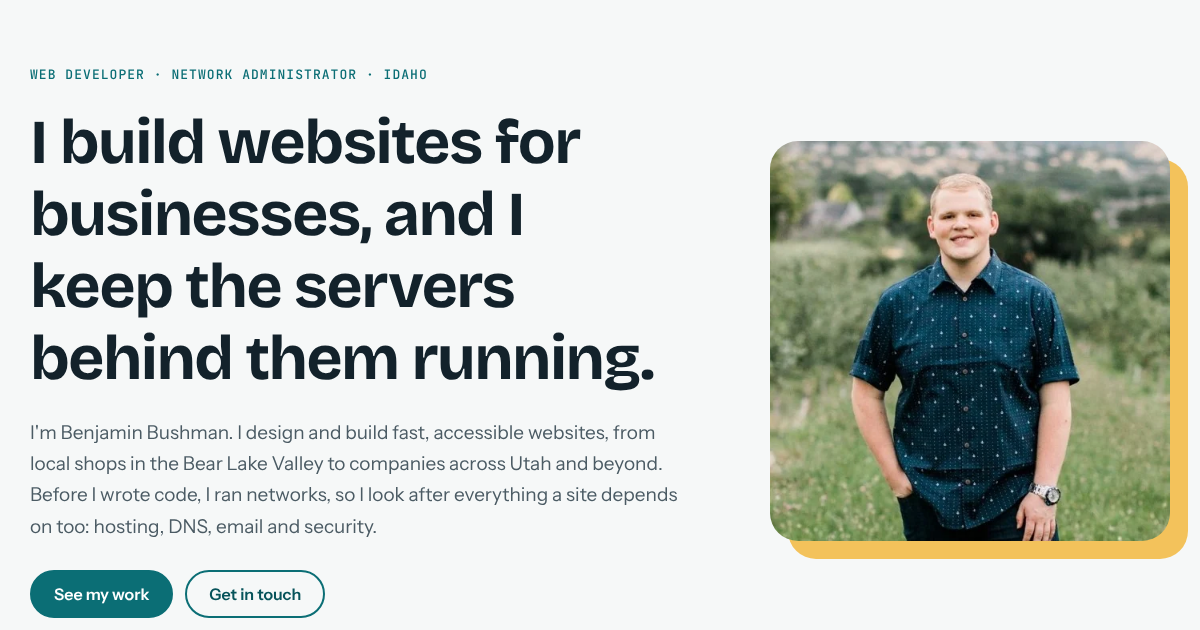
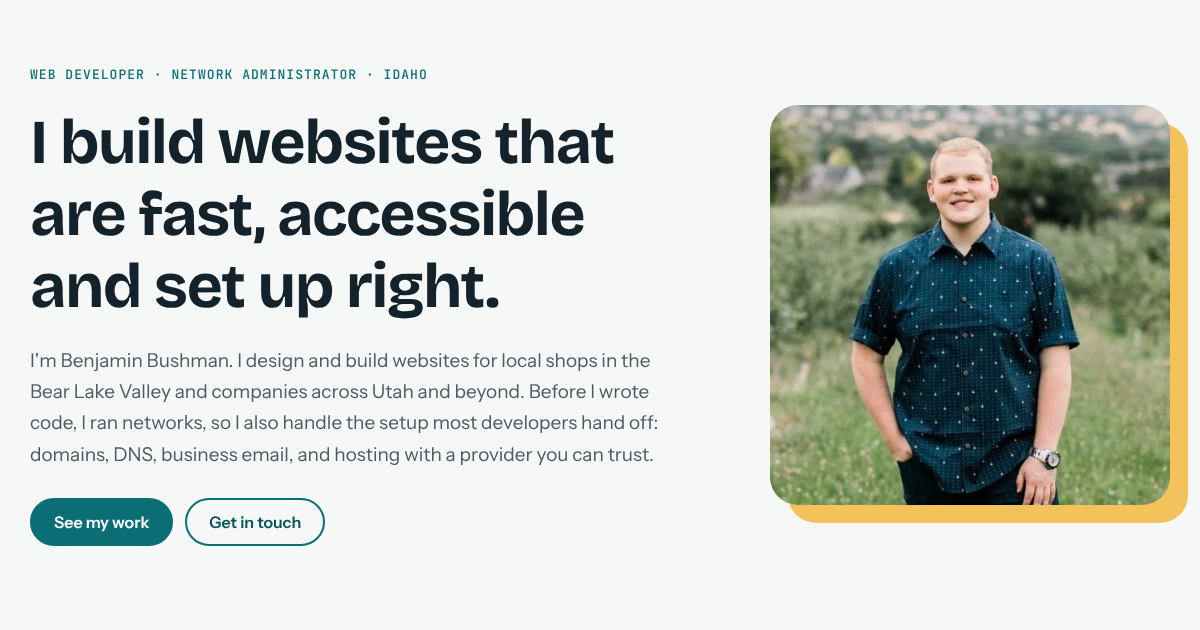
Reword hero and services: no claim of maintaining client servers
Ben's clients use hosting providers, so the site shouldn't say he keeps
their servers running. The hero now leads with fast, accessible sites
that are set up right, and "Hosting & care" becomes "Launch & setup":
domains, DNS, SSL, email and getting sites onto reliable hosting.

Claude-Session: https://claude.ai/code/session_0193iwVVA1CszZonXVZCFymP

diff --git a/index.html b/index.html
@@ -4,7 +4,7 @@
     <meta charset="UTF-8" />
     <meta name="viewport" content="width=device-width, initial-scale=1" />
     <title>Benjamin Bushman | Web Developer & Network Administrator</title>
-    <meta name="description" content="Benjamin Bushman designs and builds fast, accessible websites for businesses in Idaho, Utah and beyond, and keeps the hosting, DNS and networks behind them running." />
+    <meta name="description" content="Benjamin Bushman designs and builds fast, accessible websites for businesses in Idaho, Utah and beyond, and handles the setup behind them: domains, DNS, business email and hosting." />
     <link rel="canonical" href="https://www.benjaminbushman.com/" />
     <link rel="icon" href="/favicon.svg" type="image/svg+xml" />
     <link rel="apple-touch-icon" href="/apple-touch-icon.png" />
@@ -12,7 +12,7 @@
     <meta property="og:type" content="website" />
     <meta property="og:site_name" content="Benjamin Bushman" />
     <meta property="og:title" content="Benjamin Bushman | Web Developer & Network Administrator" />
-    <meta property="og:description" content="Benjamin Bushman designs and builds fast, accessible websites for businesses in Idaho, Utah and beyond, and keeps the hosting, DNS and networks behind them running." />
+    <meta property="og:description" content="Benjamin Bushman designs and builds fast, accessible websites for businesses in Idaho, Utah and beyond, and handles the setup behind them: domains, DNS, business email and hosting." />
     <meta property="og:url" content="https://www.benjaminbushman.com/" />
     <meta property="og:image" content="https://www.benjaminbushman.com/og-image.png" />
     <meta name="twitter:card" content="summary_large_image" />

diff --git a/src/components/Hero.tsx b/src/components/Hero.tsx
@@ -7,14 +7,14 @@ const Hero = () => {
         <div className="hero-copy">
           <p className="eyebrow">Web developer · Network administrator · Idaho</p>
           <h1 id="hero-title">
-            I build websites for businesses, and I keep the servers behind them
-            running.
+            I build websites that are fast, accessible and set up right.
           </h1>
           <p className="lead">
-            I'm Benjamin Bushman. I design and build fast, accessible websites,
-            from local shops in the Bear Lake Valley to companies across Utah
-            and beyond. Before I wrote code, I ran networks, so I look after
-            everything a site depends on too: hosting, DNS, email and security.
+            I'm Benjamin Bushman. I design and build websites for local shops in
+            the Bear Lake Valley and companies across Utah and beyond. Before I
+            wrote code, I ran networks, so I also handle the setup most
+            developers hand off: domains, DNS, business email, and hosting with
+            a provider you can trust.
           </p>
           <div className="hero-actions">
             <a className="button" href="#work">

diff --git a/src/components/Services.tsx b/src/components/Services.tsx
@@ -10,9 +10,9 @@ const services = [
     points: ["ADA audits", "WCAG fixes", "Existing sites too"],
   },
   {
-    title: "Hosting & care",
-    body: "I set up and look after the parts people forget: domains, DNS, SSL, business email and backups. When something breaks, you call me, not a support queue.",
-    points: ["Domains and DNS", "Business email", "Updates"],
+    title: "Launch & setup",
+    body: "I take care of the parts people forget: domains, DNS, SSL and business email, and I get your site running on a reliable hosting provider. When you need a change, you call me, not a support queue.",
+    points: ["Domains and DNS", "Business email", "Reliable hosting"],
   },
   {
     title: "IT & networking",
